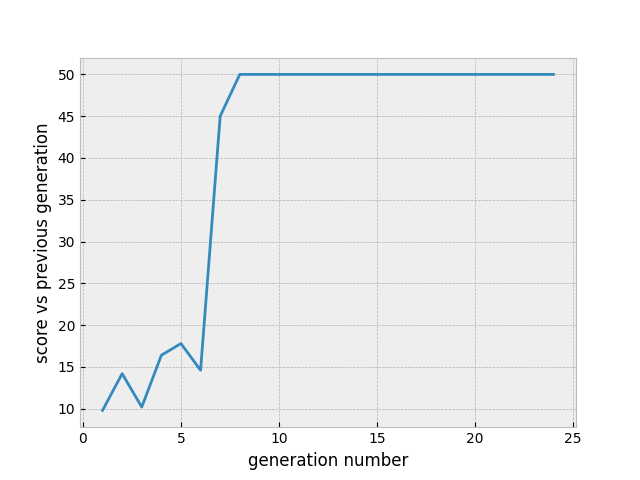
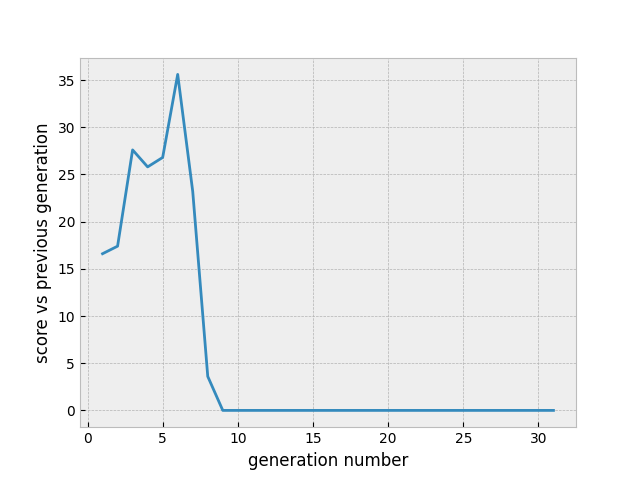
checkpoint 5/5

diff --git a/test_game.py b/test_game.py
@@ -6,8 +6,10 @@ from player import *
 players = {0: [Player() for _ in range(25)]}
 scores  = {0: {i:0 for i in range(25)}}
 
-plot_1 = []
-plot_2 = []
+# plot_1 = []
+# plot_2 = []
+plot_3 = []
+plot_4 = []
 
 def have_strategies_fight(i):
 
@@ -33,13 +35,28 @@ def have_strategies_fight(i):
                     scores[i][player_1.id] -= 1
                     scores[i][player_2.id] += 1
 
-def mate(i):
+def select_best(i, selection_method):
+    if selection_method == 'hard_cutoff':
+        return list(dict(sorted(scores[i].items(), key=lambda elem: elem[1])).keys())[-5:]
+    if selection_method == 'tournament':
+        best_player_ids = []
+        for j in range(5):
+            random_3_ids = [random.randint(0, 25) for k in range(3) if k not in best_player_ids]
+            # scores_for_random = {k:v for k, v in scores[i].items() if k in random_3_ids}
+            scores_for_random = {k:scores[i][k] for k in random_3_ids}
+            best_id_of_3 = list(dict(sorted(scores_for_random.items(), key=lambda elem: elem[1])).keys())[-1]
+            best_player_ids.append(best_id_of_3)
+        return best_player_ids
+
+def mate(i, selection_method):
     
-    best_5_player_ids = list(dict(sorted(scores[i].items(), key=lambda elem: elem[1])).keys())[-5:]
+    best_5_player_ids = select_best(i, selection_method)
     best_5_players = [players[i][player_id] for player_id in best_5_player_ids]
 
-    plot_1.append(fight_another_gen(best_5_players, 0))
-    if i != 0: plot_2.append(fight_another_gen(best_5_players, i-1))
+    # plot_1.append(fight_another_gen(best_5_players, 0))
+    plot_3.append(fight_another_gen(best_5_players, 0))
+    # if i != 0: plot_2.append(fight_another_gen(best_5_players, i-1))
+    if i != 0: plot_4.append(fight_another_gen(best_5_players, i-1))
 
     next_gen_players = best_5_players.copy()
     next_gen_scores  = {player.id:0 for player in best_5_players}
@@ -70,7 +87,7 @@ def fight_another_gen(best_5_players, i):
     for player_1 in best_5_players:
         for player_2 in players[i]:
 
-            if player_1 == player_2: continue
+            if player_1.id == player_2.id: continue
 
             for n in [1, 2]:
 
@@ -82,35 +99,43 @@ def fight_another_gen(best_5_players, i):
     
     return score / 5
 
-# players = {0: [Player() for _ in range(25)]}
-# scores  = {0: {i:0 for i in range(25)}}
-
 def strats_have_converged(i):
+
+    have_converged = True
+
     for j in range(25):
         for k in range(25):
             if players[i][j].strategy != players[i][k].strategy:
-                pass
+                have_converged = False
 
-number_of_generations = 25
+    return have_converged
+
+number_of_generations = 20
 
 for i in range(number_of_generations):
-    
-    print(i)
-    
     have_strategies_fight(i)
-    players[i + 1], scores[i + 1] = mate(i)
+    players[i + 1], scores[i + 1] = mate(i, 'tournament')
 
-    if strats_have_converged(i):
-        pass
-
-plt.figure(1)
-plt.plot(list(range(number_of_generations)), plot_1)
+plt.figure(3)
+plt.plot(list(range(number_of_generations)), plot_3)
 plt.xlabel('generation number')
-plt.ylabel('score vs 1st generation')
-plt.savefig('plot_1.png')
+plt.ylabel('tournament selection: score vs 1st generation')
+plt.savefig('plot_3.png')
 
-plt.figure(2)
-plt.plot(list(range(1, number_of_generations)), plot_2)
+plt.figure(4)
+plt.plot(list(range(1, number_of_generations)), plot_4)
 plt.xlabel('generation number')
-plt.ylabel('score vs previous generation')
-plt.savefig('plot_2.png')
+plt.ylabel('tournament selection: score vs previous generation')
+plt.savefig('plot_4.png')
+
+# plt.figure(1)
+# plt.plot(list(range(number_of_generations)), plot_1)
+# plt.xlabel('generation number')
+# plt.ylabel('hard cutoff: score vs 1st generation')
+# plt.savefig('plot_1.png')
+
+# plt.figure(2)
+# plt.plot(list(range(1, number_of_generations)), plot_2)
+# plt.xlabel('generation number')
+# plt.ylabel('hard cutoff: score vs previous generation')
+# plt.savefig('plot_2.png')
